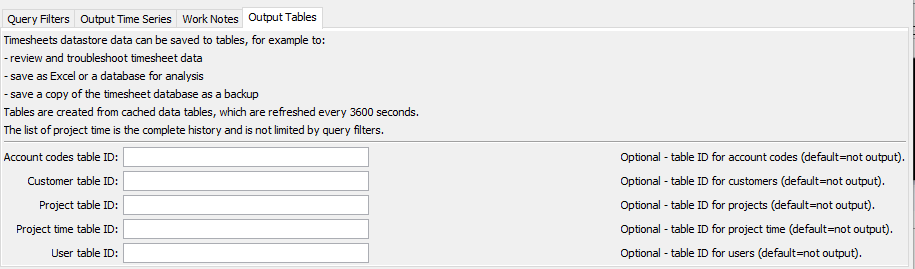
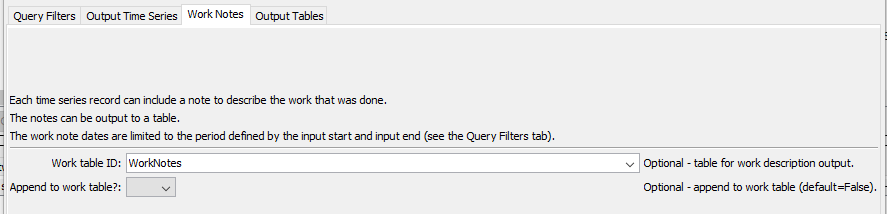
Update work notes to use the input period, issue #14

diff --git a/owf-tstool-timesheetscom-plugin/src/main/java/org/openwaterfoundation/tstool/plugin/timesheetscom/datastore/TimesheetsComDataStore.java b/owf-tstool-timesheetscom-plugin/src/main/java/org/openwaterfoundation/tstool/plugin/timesheetscom/datastore/TimesheetsComDataStore.java
@@ -1924,7 +1924,7 @@ public class TimesheetsComDataStore extends AbstractWebServiceDataStore implemen
      * <li> "DataFlag" - if "Archived" set the data flag to ARCHIVED, if "Archived0", only set if 0, if "Archived1", only set if 1.</li>
      * <li> "ProjectStatus" - "Active" (default), "Archived", or "All" - NOT ENABLED
      * </ul>
-     * @param workTable if null, table to set work notes
+     * @param workTable if null, table to set work notes (records will be limited to 'readStart' and 'readEnd')
      * @return the time series or null if not read
      */
     public TS readTimeSeries ( String tsidReq, DateTime readStart, DateTime readEnd,
@@ -2202,11 +2202,14 @@ public class TimesheetsComDataStore extends AbstractWebServiceDataStore implemen
    				try {
    					TableRecord rec = new TableRecord();
    					// Can use the original DateTime since it won't be changed.
-   					rec.addFieldValue(dt);
-   					rec.addFieldValue(data.getLastName() + ", " + data.getFirstName() );
-   					rec.addFieldValue(Float.valueOf(data.getHoursAsFloat()));
-   					rec.addFieldValue(data.getWorkDescription());
-					workTable.addRecord(rec);
+   					// However, limit to the InputStart and InputEnd used by the time series.
+   					if ( dt.greaterThanOrEqualTo(ts.getDate1()) && dt.lessThanOrEqualTo(ts.getDate2()) ) {
+   						rec.addFieldValue(dt);
+   						rec.addFieldValue(data.getLastName() + ", " + data.getFirstName() );
+   						rec.addFieldValue(Float.valueOf(data.getHoursAsFloat()));
+   						rec.addFieldValue(data.getWorkDescription());
+						workTable.addRecord(rec);
+   					}
    				}
    				catch ( Exception e ) {
    					// Should not happen and could generate a lot of output.

diff --git a/owf-tstool-timesheetscom-plugin/src/main/java/org/openwaterfoundation/tstool/plugin/timesheetscom/commands/ReadTimesheetsCom_JDialog.java b/owf-tstool-timesheetscom-plugin/src/main/java/org/openwaterfoundation/tstool/plugin/timesheetscom/commands/ReadTimesheetsCom_JDialog.java
@@ -1138,6 +1138,9 @@ private void initialize ( JFrame parent, ReadTimesheetsCom_Command command, List
     JGUIUtil.addComponent(work_JPanel, new JLabel(
     	"The notes can be output to a table."),
         0, ++yWork, 7, 1, 0, 0, insetsTLBR, GridBagConstraints.NONE, GridBagConstraints.WEST);
+    JGUIUtil.addComponent(work_JPanel, new JLabel(
+    	"The work note dates are limited to the period defined by the input start and input end (see the Query Filters tab)."),
+        0, ++yWork, 7, 1, 0, 0, insetsTLBR, GridBagConstraints.NONE, GridBagConstraints.WEST);
     JGUIUtil.addComponent(work_JPanel, new JSeparator(SwingConstants.HORIZONTAL),
         0, ++yWork, 7, 1, 0, 0, insetsTLBR, GridBagConstraints.HORIZONTAL, GridBagConstraints.WEST);
 

diff --git a/owf-tstool-timesheetscom-plugin/src/main/java/org/openwaterfoundation/tstool/plugin/timesheetscom/PluginMeta.java b/owf-tstool-timesheetscom-plugin/src/main/java/org/openwaterfoundation/tstool/plugin/timesheetscom/PluginMeta.java
@@ -26,7 +26,7 @@ public class PluginMeta {
 	/**
 	 * Plugin version.
 	 */
-	public static final String VERSION = "1.1.2 (2024-08-19)";
+	public static final String VERSION = "1.1.3 (2024-09-10)";
 
 	/**
 	 * Get the documentation root URL, used for command help.

diff --git a/doc-user-mkdocs-project/docs/command-ref/ReadTimesheetsCom/ReadTimesheetsCom.md b/doc-user-mkdocs-project/docs/command-ref/ReadTimesheetsCom/ReadTimesheetsCom.md
@@ -25,7 +25,7 @@ for more information about `timesheets.com` web service integration and limitati
 The command is designed to utilize web service query criteria to process large numbers of time series,
 for example to produce real-time information products and perform historical data analysis and quality control.
 
-See also the 
+See also the
 [TSID for TimesheetsCom](../TSID/TSID.md) time series identifier command,
 which reads time series for a single time series.
 
@@ -147,7 +147,7 @@ Command Parameters
 |**Query Filter**|`InputStart`|Start of the period to query, specified as a date/time with a precision that matches the requested data interval.|Read all available data.|
 ||`InputEnd`|End of the period to query, specified as a date/time with a precision that matches the requested data interval.|Read all available data.|
 ||`IncludeHours`|Indicate which timesheet hours to include:<ul><li>`All` - read all data</li><li>`Archived` - only read archived data</li><li>`New` - only read new hours (not archived)</li></ul>|`All`|
-|***Output Time Series***|`OutputTimeSeries`| Whether time series should be output: <ul><li>`False` - use when only tables are being output</li><li>`True` - to output time series</li></ul> | `True` |
+|***Output Time Series***|`OutputTimeSeries`| Whether time series should be output: <ul><li>`False` - use when only tables are being output</li><li>`True` - to the output time series</li></ul> | `True` |
 ||`Alias`|The alias to assign to the time series, as a literal string or using the special formatting characters listed by the command editor.  The alias is an identifier used by other commands to locate time series for processing, as an alternative to the time series identifier (`TSID`).  Because the time series identifier is relatively complex, it is often cleaner to use properties to define the alias, for example customer and user data set as processor or time series properties. |None – alias is not assigned.|
 | | `DataFlag` | Indicate how to set the data flag for time series values:<ul><li>`Archived` - the data `archived` value (`1` = active, `0` = archived)</li><li>`Archived0` - like `Archived`, but only set the flag if the value is `0`</li><li>`Archived1` - like `Archived`, but only set the flag if the value is `1`</li></ul> | No flag is set. |
 | | `IfMissing` | Currently not implemented. | |

diff --git a/doc-user-mkdocs-project/docs/appendix-release-notes/release-notes.md b/doc-user-mkdocs-project/docs/appendix-release-notes/release-notes.md
@@ -7,6 +7,7 @@ See the [TSTool release notes](http://opencdss.state.co.us/tstool/latest/doc-use
 Plugin release notes are listed below.
 The repository issue for release note item is shown where applicable.
 
+*   [Changes in Version 1.1.3](#changes-in-version-113)
 *   [Changes in Version 1.1.2](#changes-in-version-112)
 *   [Changes in Version 1.1.1](#changes-in-version-111)
 *   [Changes in Version 1.1.0](#changes-in-version-110)
@@ -15,12 +16,20 @@ The repository issue for release note item is shown where applicable.
 
 ----------
 
+## Changes in Version 1.1.3 ##
+
+**Maintenance release to improve handling of work notes.**
+
+*   The [`ReadTimesheetsCom`](../command-ref/ReadTimesheetsCom/ReadTimesheetsCom.md) command has been enhanced:
+    +   ![change](change.png) [#14] Change so that the work notes, if output,
+        are constrained to the `InputStart` and `InputEnd`.
+
 ## Changes in Version 1.1.2 ##
 
 **Maintenance release to improve functionity for billing analysis workflows.**
 
 *   The [`ReadTimesheetsCom`](../command-ref/ReadTimesheetsCom/ReadTimesheetsCom.md) command has been enhanced:
-    +   ![bug](bug.png) Fix bug where the `Where` filters were not working correctly.
+    +   ![bug](bug.png) [#13] Fix bug where the `Where` filters were not working correctly.
     +   ![change](change.png) Add the `Alias` parameter to the command editor (previously, was accidentally omitted).
     +   ![change](change.png) Add the `OutputTimeSeries` parameter to control whether time series are output.
         Using `False` allows reading and outputting tables such as user and project list without outputting time series.

diff --git a/doc-user-mkdocs-project/docs/index.md b/doc-user-mkdocs-project/docs/index.md
@@ -9,8 +9,8 @@ This plugin allows timesheet data from [`timesheets.com`](https://timesheets.com
 
 This documentation has been updated for:
 
-*   TSTool version 14.9.6
-*   TSTool TimesheetsCom plugin version 1.1.2
+*   TSTool version 14.9.7
+*   TSTool TimesheetsCom plugin version 1.1.3
 
 ----------------
 
